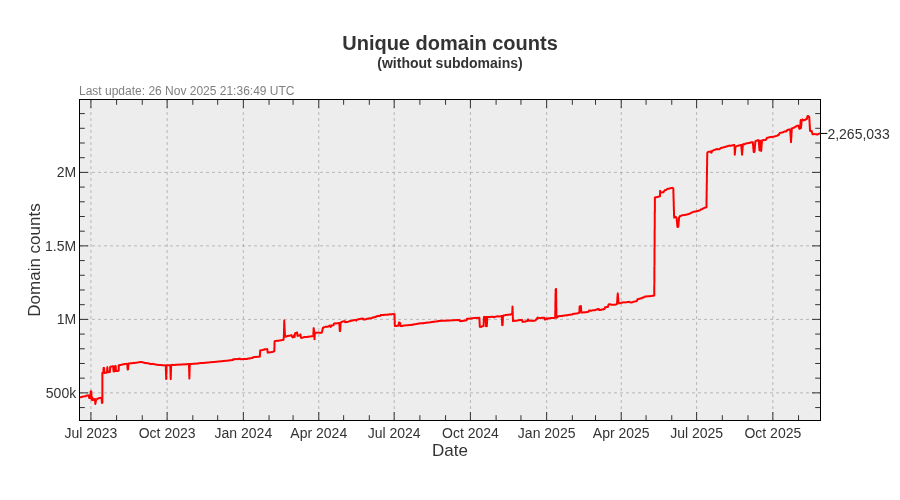
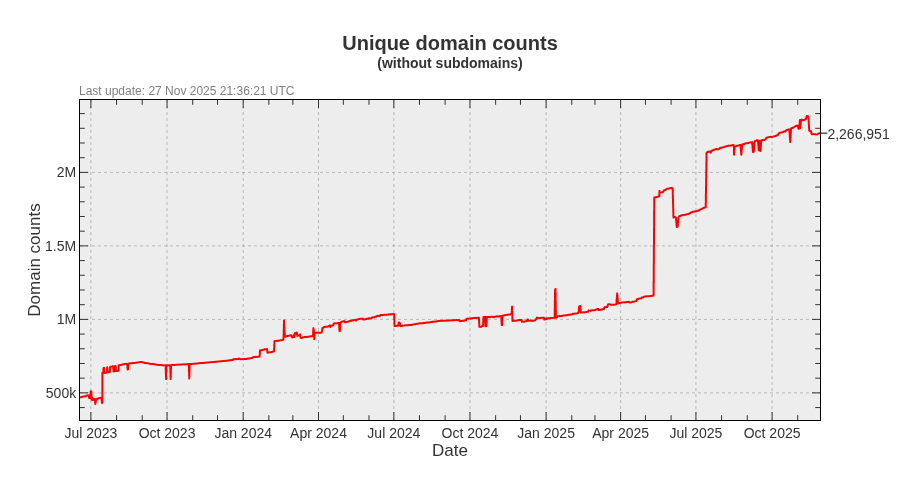
Update pages

diff --git a/README.md b/README.md
@@ -3,22 +3,22 @@ A blocklist file for blocking ads, trackers and malware domains.
 
[1 lines of base64/hex data omitted]
 
-- Unique domains: 2,963,601
-- Without subdomains: 2,265,033
-- Last update: 26 Nov 2025 21:36:49 UTC
-- Version: 2025.11.26.01
+- Unique domains: 2,965,629
+- Without subdomains: 2,266,951
+- Last update: 27 Nov 2025 21:36:21 UTC
+- Version: 2025.11.27.01
 
 
 ### Downloads:
 
 | Format             | Domain count      | Download Link |
 |:------------------ | -----------------:|:-------------:|
-| *Adblock Plus*     | 2,265,033 | [Download](https://dl.cenk.app/bad-hosts/bad-hosts-abp) |
-| *Wildcard domains* | 2,265,033 | [Download](https://dl.cenk.app/bad-hosts/bad-hosts-wildcard) |
-| *dnsmasq*          | 2,265,033 | [Download](https://dl.cenk.app/bad-hosts/bad-hosts-dnsmasq) |
-| *hosts*            | 2,963,601 | [Download](https://dl.cenk.app/bad-hosts/hosts) |
-| *hosts (ipv6)*     | 2,963,601 | [Download](https://dl.cenk.app/bad-hosts/hosts-ipv6) |
-| *Plain domains*    | 2,963,601 | [Download](https://dl.cenk.app/bad-hosts/bad-hosts-domains) |
+| *Adblock Plus*     | 2,266,951 | [Download](https://dl.cenk.app/bad-hosts/bad-hosts-abp) |
+| *Wildcard domains* | 2,266,951 | [Download](https://dl.cenk.app/bad-hosts/bad-hosts-wildcard) |
+| *dnsmasq*          | 2,266,951 | [Download](https://dl.cenk.app/bad-hosts/bad-hosts-dnsmasq) |
+| *hosts*            | 2,965,629 | [Download](https://dl.cenk.app/bad-hosts/hosts) |
+| *hosts (ipv6)*     | 2,965,629 | [Download](https://dl.cenk.app/bad-hosts/hosts-ipv6) |
+| *Plain domains*    | 2,965,629 | [Download](https://dl.cenk.app/bad-hosts/bad-hosts-domains) |
 
 ### Domain count history
 #### With subdomains
